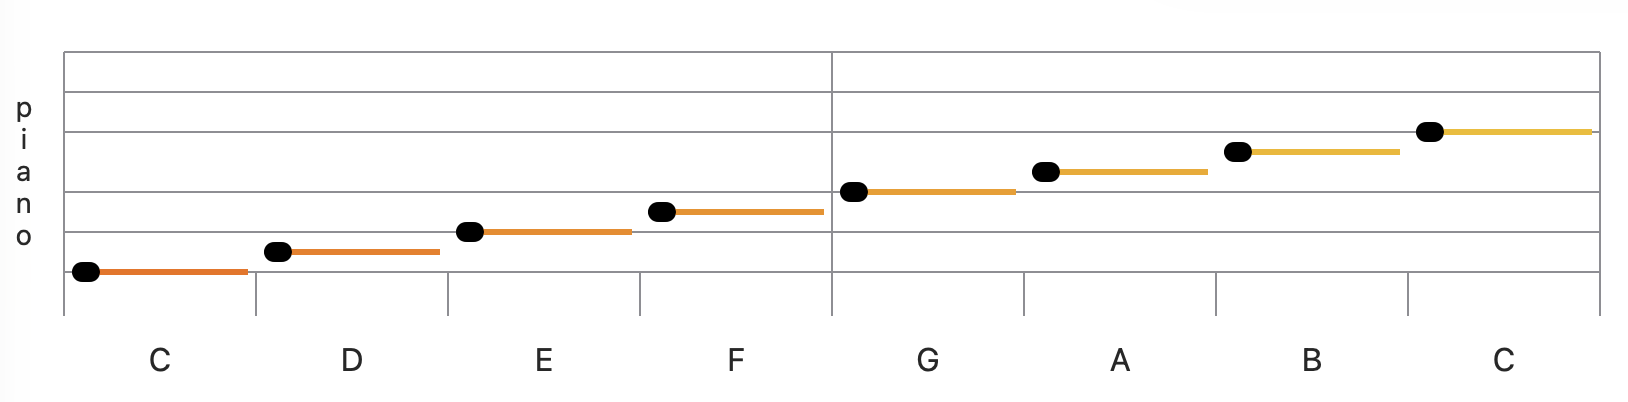
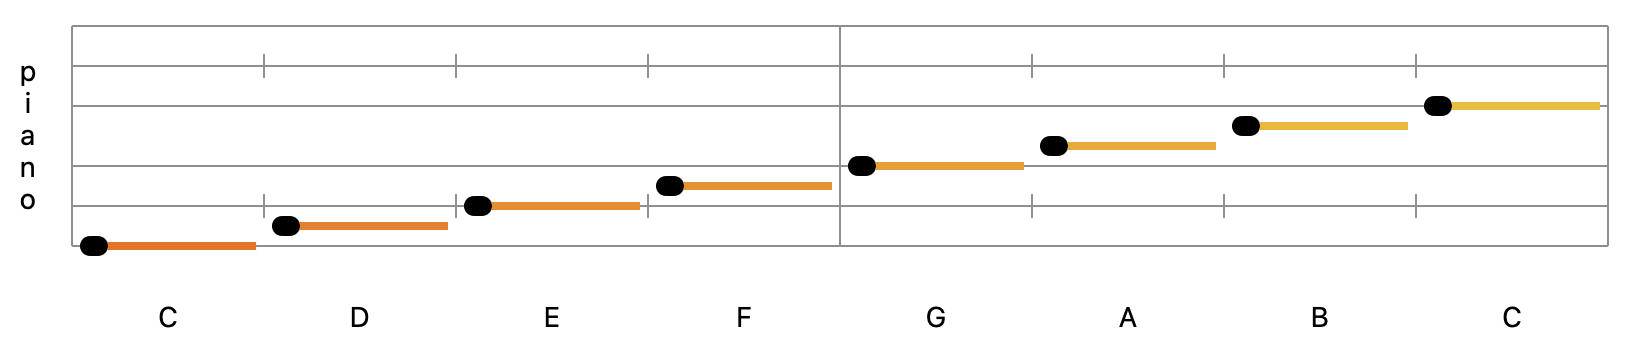
Updated manuals for version 1.2

diff --git a/App/Sources/MusicSheetView.swift b/App/Sources/MusicSheetView.swift
@@ -247,8 +247,14 @@ struct MusicSheetView : View {
         
         // Draw the vertical lines
         var x = x0
-        let top = y0 - (octaveRange * octaveHeight) + 10
-        let bottom = y0 - 20
+        var top = y0 - (octaveRange * octaveHeight) + 10
+        var bottom = y0 - 20
+        
+        if (octaveRange == 1) {
+            top -= 20
+            bottom += 20
+        }
+        
         while (x <= x0 + width)
         {
             var path = Path()

diff --git a/docs/manuals/User-Manual.md b/docs/manuals/User-Manual.md
@@ -1,7 +1,8 @@
-![emu-icon](assets/emu-icon.png)
+![emu-icon](assets/emu-icon.png) 
+*Version 1.2*
 
 # User Manual
-EMU-Script is a programmable MIDI sequencer and music sheet viewer. It proposes an innovative approach to electronic music creation. I hope you will enjoy using it!
+EMU-Script is a programmable MIDI sequencer and a sheet music viewer. It proposes an innovative approach to electronic music creation. I hope you will enjoy using it!
 
 ## 1. Installation and Configuration
 
@@ -24,41 +25,41 @@ Here is the main view of the application after the creation of a new document:
 ![main-view](assets/script-editor.png)
 The user interface has four distinct parts:
 - **The sidebar** (on the left) lists the musical sections and instruments of the composition. The mute button, at the right of an instrument, is used to mute or unmute the instrument. At the bottom of the sidebar, you can view information about the composition or about the selected note or chord.
-- **The toolbar** (top right) has a button to toggle between the script editor and the music sheet, a play button, a stop button, a metronome button, and the scroll buttons.
-- **The script editor** (on the right) is displayed by default. You can click on the *staff+note* icon to switch to the music sheet.
-- **The music sheet** displays the measures of the selected musical instruments and musical sections.
+- **The toolbar** (top right) has a button to toggle between the script editor and the sheet music view, a play button, a stop button, a zoom button, a metronome button, and the scroll buttons.
+- **The script editor** (on the right) is displayed by default. You can click on the *staff+note* icon to switch to the sheet music view.
+- **The sheet music view** displays the measures of the selected musical instruments and musical sections.
 
 ![script-editor](assets/main-view.png)
 The following keyboard shortcuts are available:
 - **ENTER**: start playback
 - **ESC**: stop the current playback
-- **Right arrow**: scroll the music sheet to the right.
-- **Left arrow**: scroll the music sheet to the left.
+- **Right arrow**: scroll the sheet music to the right.
+- **Left arrow**: scroll the sheet music view to the left.
 
-## 2. The Music Sheet
-The music sheet is a visual representation of the composition. From left to right, it displays the measures of the compositions. From top to bottom, it displays the following:
+## 2. The Sheet Music
+The sheet music is a visual representation of the composition. From left to right, it displays the measures of the compositions. From top to bottom, it displays the following:
 - The measure numbers and section names
 - The musical staff of the first instrument and its lyrics (if any).
-- The musical staffs of the other instruments.
+- The staves of the other instruments.
 - The chord progression (if any)
 
-![music-sheet](assets/music-sheet.png)
+![sheet-music](assets/sheet-music.png)
 
 
-### 2.1 Staffs
-A staff has a range of two octaves (+ 2 whole tones). Here are the notes of the C major scale:
+### 2.1 Staves
+A staff has a range one, two or three octaves. Here are the notes of the C major scale:
 
 ![c-major-scale](assets/c-major-scale.png)
 
-The chromatic notes (sharp notes) have an outlined shape. Here are all the chromatic notes of a 6/8 staff in C major:
+The chromatic notes (sharp notes) have an outlined shape. Here are some chromatic notes:
 
 ![chromatic-notes](assets/chromatic-notes.png)
 
-The color used for the horizontal line of the note is an indicator of the note pitch. The color has a gradient ranging from red (low pitches), orange (mid pitches), and yellow (high pitches). Here is the C major scale of a bass instrument:
+The color used for the horizontal line of the note is an indicator of the note pitch. The color has a gradient ranging from red (low pitches), orange (mid pitches), and yellow (high pitches). Here is a 3 three octaves staff:
 
-![c-major-scale-bass](assets/c-major-scale-bass.png)
+![colored-staff](assets/colored-staff.png)
 
-### 2.2 Drum Staffs
+### 2.2 Drum Staves
 A drum staff has only one line, and it displays the notes as plain text:
 
 ![drum-staff](assets/drum-staff.png)

diff --git a/docs/manuals/Reference-Manual.md b/docs/manuals/Reference-Manual.md
@@ -1,4 +1,5 @@
 ![emu-icon](assets/emu-icon.png) 
+*Version 1.2*
 
 # Reference Manual
 An EMU-Script must contain at least 3 sections: the `[composition]` section, the `[instruments]` section, and at least one musical section. The other types of sections are optional. All sections of a script share the same structure:
@@ -177,7 +178,7 @@ text: "Oh | quand j'en tends so_ | nner | au ciel - - | . L'heure où le  | bon 
 ```
 All lyrics must be quoted, and lyric lines must be prefixed by `text:`. The same time modifiers that are used for notes are also valid for lyrics (parenthesis, dash, dot). 
 
-To indicate that a word is spread over two notes, you can use the underscore character at the end or beginning of a syllable, and it will be displayed as a dash in the music sheet ("quand j'en_ tends chan_" is displayed as "quand j'en - tends chan -").
+To indicate that a word is spread over two notes, you can use the underscore character at the end or beginning of a syllable, and it will be displayed as a dash in the sheet music ("quand j'en_ tends chan_" is displayed as "quand j'en - tends chan -").
 
 ### 3.6 Chord progression
 A chord progression defines the harmonic structure of a composition. You can add a chord progression using lines that are prefixed by `chord:`. Here is an example:
